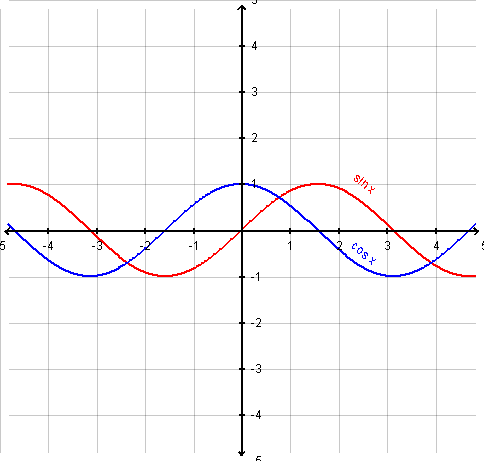
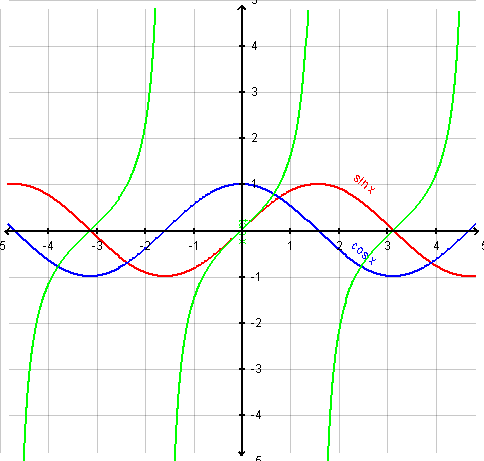
Improved some aspects of StatisticsPanel

diff --git a/src/net/net16/jeremiahlowe/scicalc/Enums.java b/src/net/net16/jeremiahlowe/scicalc/Enums.java
@@ -27,75 +27,43 @@ public interface Enums {
 		LessThan, LessThanOrEqualTo, EqualTo, GreatorThanOrEqualTo, GreatorThan;
 	}
 	public static enum VerticalAllignment{
-		Up, HalfUp, Center, HalfDown, Down, Custom;
+		Up(1d), HalfUp(0.75d), Center(0.5d), HalfDown(0.25d), Down(0d);
 		private double percent = 0;
-		public VerticalAllignment negate(){
-			if(this == Up) return Down;
-			else if(this == Down) return Up;
-			else if(this == HalfUp) return HalfDown;
-			else if(this == HalfDown) return HalfUp;
-			else if(this == Custom){
-				VerticalAllignment special = VerticalAllignment.Custom;
-				special.setCustomPercent(1 - percent);
-				return special;
-			}
-			else return Center;
+		private VerticalAllignment(double percent){
+			this.percent = percent;
 		}
-		public void setCustomPercent(double percent){
-			if(percent >= 0 && percent <= 1){
-				this.percent = percent;
-				return;
-			}
-			throw new RuntimeException("Percentages must be >= 0 and <= 1!");
+		public void setPercent(double percent){
+			if(percent >= 0 && percent <= 1) this.percent = percent;
+			else throw new RuntimeException("Percentages must be >= 0 and <= 1!");
 		}
-		public double getCustomMultiplier(){return percent;}
+		public double getPercent(){return percent;}
 		public double interpolate(double min, double max){
-			double mid = (max + min) / 2;
-			switch(this){
-				case Center: return mid;
-				case Down: return min;
-				case HalfDown: return (mid + min) / 2;
-				case HalfUp: return (mid + max) / 2;
-				case Up: return max;
-				case Custom: return (min + max) * percent;
-				default: return mid;
-			}
+			return (min + max) * percent;
+		}
+		public VerticalAllignment negate(){
+			VerticalAllignment out = VerticalAllignment.Center;
+			out.setPercent(1d - getPercent());
+			return out;
 		}
 	}
 	public static enum HorizontalAllignment{
-		Left, HalfLeft, Center, HalfRight, Right, Custom;
+		Left(0d), HalfLeft(0.25d), ForthLeft(0.375d), Center(0.5d), ForthRight(0.625d), HalfRight(0.75d), Right(1d);
 		private double percent = 0;
-		public HorizontalAllignment negate(){
-			if(this == Left) return Right;
-			else if(this == Right) return Left;
-			else if(this == HalfLeft) return HalfRight;
-			else if(this == HalfRight) return HalfLeft;
-			else if(this == Custom){
-				HorizontalAllignment special = HorizontalAllignment.Custom;
-				special.setCustomPercent(1 - percent);
-				return special;
-			}
-			else return Center;
+		private HorizontalAllignment(double percent){
+			this.percent = percent;
 		}
-		public void setCustomPercent(double percent){
-			if(percent >= 0 && percent <= 1){
-				this.percent = percent;
-				return;
-			}
-			throw new RuntimeException("Percentages must be >= 0 and <= 1!");
+		public void setPercent(double percent){
+			if(percent >= 0 && percent <= 1) this.percent = percent;
+			else throw new RuntimeException("Percentages must be >= 0 and <= 1!");
 		}
-		public double getCustomMultiplier(){return percent;}
+		public double getPercent(){return percent;}
 		public double interpolate(double min, double max){
-			double mid = (max + min) / 2;
-			switch(this){
-				case Center: return mid;
-				case Left: return min;
-				case HalfLeft: return (mid + min) / 2;
-				case HalfRight: return (mid + max) / 2;
-				case Right: return max;
-				case Custom: return (min + max) * percent;
-				default: return mid;
-			}
+			return (min + max) * percent;
+		}
+		public HorizontalAllignment negate(){
+			HorizontalAllignment out = HorizontalAllignment.Center;
+			out.setPercent(1d - getPercent());
+			return out;
 		}
 	}
 	public static enum LineStyle{

diff --git a/src/net/net16/jeremiahlowe/scicalc/statistics/StatisticsPanel.java b/src/net/net16/jeremiahlowe/scicalc/statistics/StatisticsPanel.java
@@ -4,8 +4,15 @@ import java.awt.Color;
 import java.awt.Graphics;
 import java.awt.image.BufferedImage;
 import java.awt.image.ColorModel;
+import java.util.List;
 
 import javax.swing.JComponent;
+
+import net.net16.jeremiahlowe.scicalc.functions.FunctionFactory;
+import net.net16.jeremiahlowe.scicalc.functions.std.UnaryFunction;
+import net.net16.jeremiahlowe.scicalc.utility.MathUtility;
+import net.net16.jeremiahlowe.scicalc.utility.Utility;
+import net.net16.jeremiahlowe.scicalc.utility.collections.Vector2Precise;
 
 public class StatisticsPanel extends JComponent {
 	private static final long serialVersionUID = 1L;
@@ -56,5 +63,38 @@ public class StatisticsPanel extends JComponent {
 		list.setSelectedBackgroundColor(selectedColor);
 		list.setTextSpacing(textSpacing);
 		list.draw(g, x, y);
+	}
+	public UnaryFunction asYEqualsAXPlusB(int xList, int yList){
+		Vector2Precise[] points = getListsAsPointsArray(xList, yList);
+		float avgSlope = 0, avgIntercept = 0;
+		Vector2Precise lastPoint = null, currentPoint = null;
+		for(int i = 1; i < points.length; i++){
+			lastPoint = points[i - 1];
+			currentPoint = points[i];
+			avgSlope += MathUtility.slope(lastPoint, currentPoint);
+			avgIntercept += MathUtility.yIntercept(lastPoint, currentPoint);
+		}
+		avgSlope /= points.length;
+		avgIntercept /= points.length;
+		return FunctionFactory.line(avgSlope, avgIntercept);
+	}
+	public Vector2Precise[] getListsAsPointsArray(int xList, int yList){
+		double[] xValues = new double[lists[xList].base.size()];
+		double[] yValues = new double[lists[yList].base.size()];
+		int xLen = xValues.length, yLen = yValues.length;
+		for(int i = 0; i < xLen; i++)
+			xValues[i] = lists[xList].base.get(i).doubleValue();
+		for(int i = 0; i < yLen; i++)
+			yValues[i] = lists[yList].base.get(i).doubleValue();
+		if(xLen != yLen){
+			int minLen = xLen < yLen ? xLen : yLen;
+			int maxLen = xLen > yLen ? xLen : yLen;
+			double[] resized = new double[maxLen];
+			for(int i = 0; i < minLen; i++)
+				resized[i] = (xLen < yLen ? xValues : yValues)[i];
+			for(int i = minLen - 1; i < maxLen; i++)
+				resized[i] = 0;
+		}
+		return Utility.combineXYArrays(xValues, yValues);
 	}
 }

diff --git a/src/net/net16/jeremiahlowe/scicalc/utility/MathUtility.java b/src/net/net16/jeremiahlowe/scicalc/utility/MathUtility.java
@@ -122,4 +122,30 @@ public class MathUtility {
 		else return true;
 	}
 
+	public static final double slopeXY(Vector2Precise a, Vector2Precise b, boolean highNumOverInf){
+		double x = b.x - a.x, y = a.y - b.y;
+		if(y == 0){
+			if(highNumOverInf) return 1e10;
+			else return Double.POSITIVE_INFINITY;
+		}
+		return x / y;
+	}
+	public static final double slopeYX(Vector2Precise a, Vector2Precise b, boolean highNumOverInf){
+		double x = b.x - a.x, y = a.y - b.y;
+		if(x == 0){
+			if(highNumOverInf) return 1e10;
+			else return Double.POSITIVE_INFINITY;
+		}
+		return y / x;
+	}
+	public static final double slope(Vector2Precise a, Vector2Precise b, boolean highNumOverInf){
+		return slopeYX(a, b, highNumOverInf);
+	}
+	public static final double slope(Vector2Precise a, Vector2Precise b){
+		return slopeYX(a, b, false);
+	}
+	public static final double yIntercept(Vector2Precise a, Vector2Precise b){
+		double m = slopeYX(a, b, false);
+		return a.y - (m * b.x);
+	}
 }

diff --git a/src/net/net16/jeremiahlowe/scicalc/utility/Utility.java b/src/net/net16/jeremiahlowe/scicalc/utility/Utility.java
@@ -1,5 +1,7 @@
 package net.net16.jeremiahlowe.scicalc.utility;
 
+import net.net16.jeremiahlowe.scicalc.utility.collections.Vector2Precise;
+
 public class Utility {
 	public static final String clampLength(String in, int len){return clampLength(in, len, false);}
 	public static final String clampLength(String in, int len, boolean dots){
@@ -55,5 +57,14 @@ public class Utility {
 			if(any == t) return true;
 		}
 		return false;
+	}
+	public static Vector2Precise[] combineXYArrays(double[] x, double[] y){
+		if(x.length != y.length)
+			throw new RuntimeException("X and Y Arrays must be same in size");
+		int len = x.length;
+		Vector2Precise[] out = new Vector2Precise[len];
+		for(int i = 0; i < len; i++)
+			out[i] = new Vector2Precise(x[i], y[i]);
+		return out;
 	}
 }

diff --git a/demos/MainPageGraphs.java b/demos/MainPageGraphs.java
@@ -37,8 +37,22 @@ public class MainPageGraphs {
 		uf2.getFunctionLabel().hAllign = HorizontalAllignment.HalfLeft;
 		uf2.getFunctionLabel().labelRotation.setAngleDegrees(40);
 		
+		UnaryFunction uf3 = new UnaryFunction() {
+			@Override
+			public double f(double x) {
+				return Math.tan(x);
+			}
+		};
+		cp.addFunction(uf3);
+		uf3.setLineWidth(2);
+		uf3.getFunctionLabel().label = "tan x";
+		uf3.setColor(Color.GREEN);
+		uf3.getFunctionLabel().vAllign = VerticalAllignment.Center;
+		uf3.getFunctionLabel().hAllign = HorizontalAllignment.Center;
+		uf3.getFunctionLabel().labelRotation.setAngleDegrees(90);
+		
 		cp.recalculate();
 		cp.takeScreenshot("demos/images/sine-main-page.png", "png");
-		System.exit(0);
+		//System.exit(0);
 	}
 }
